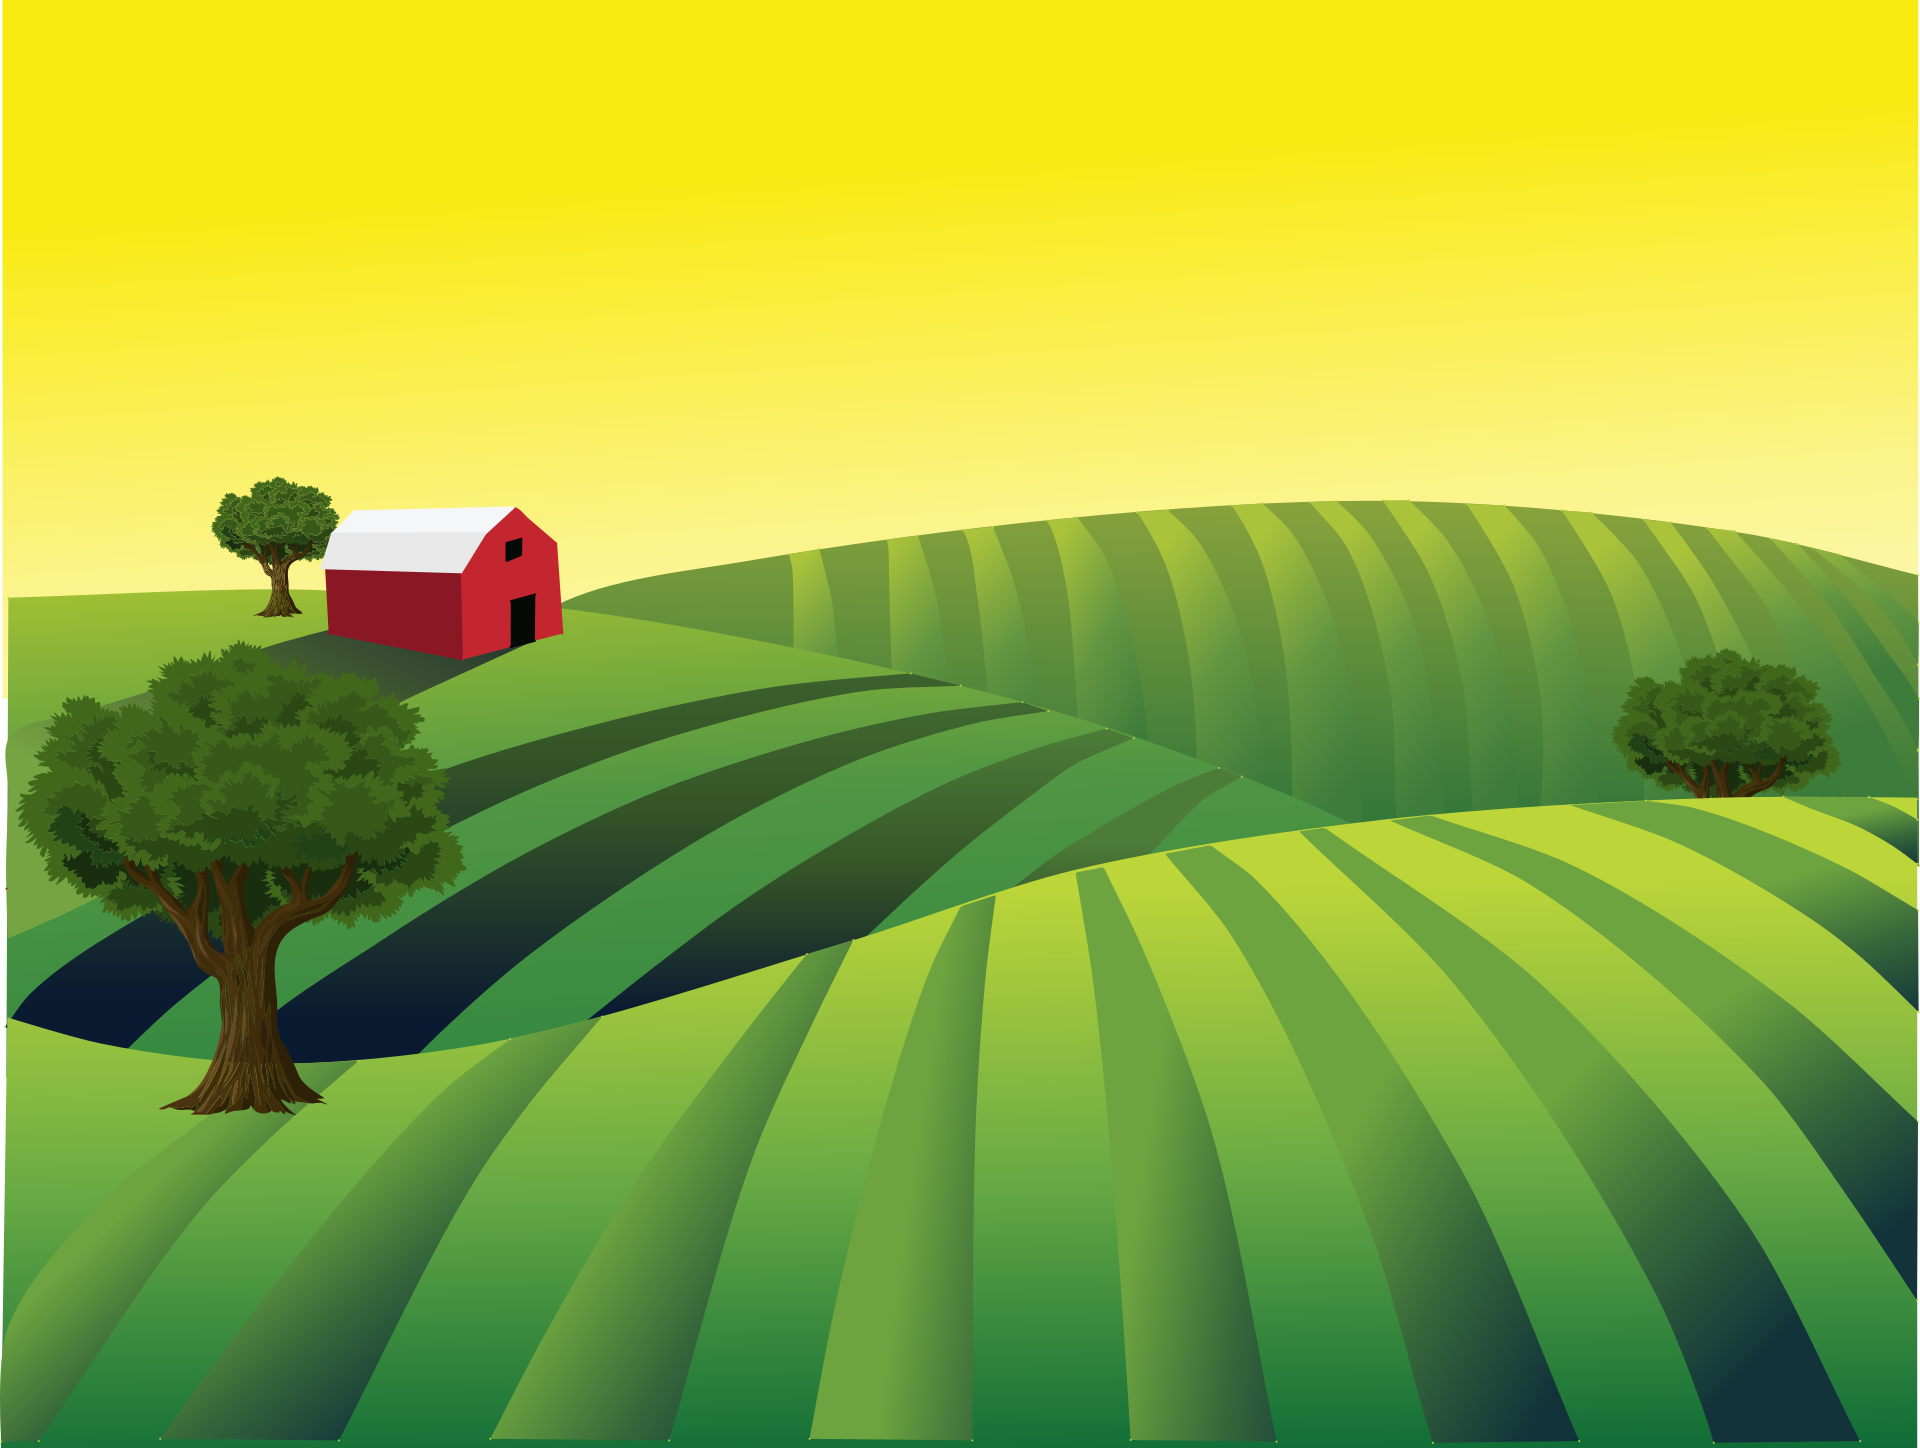
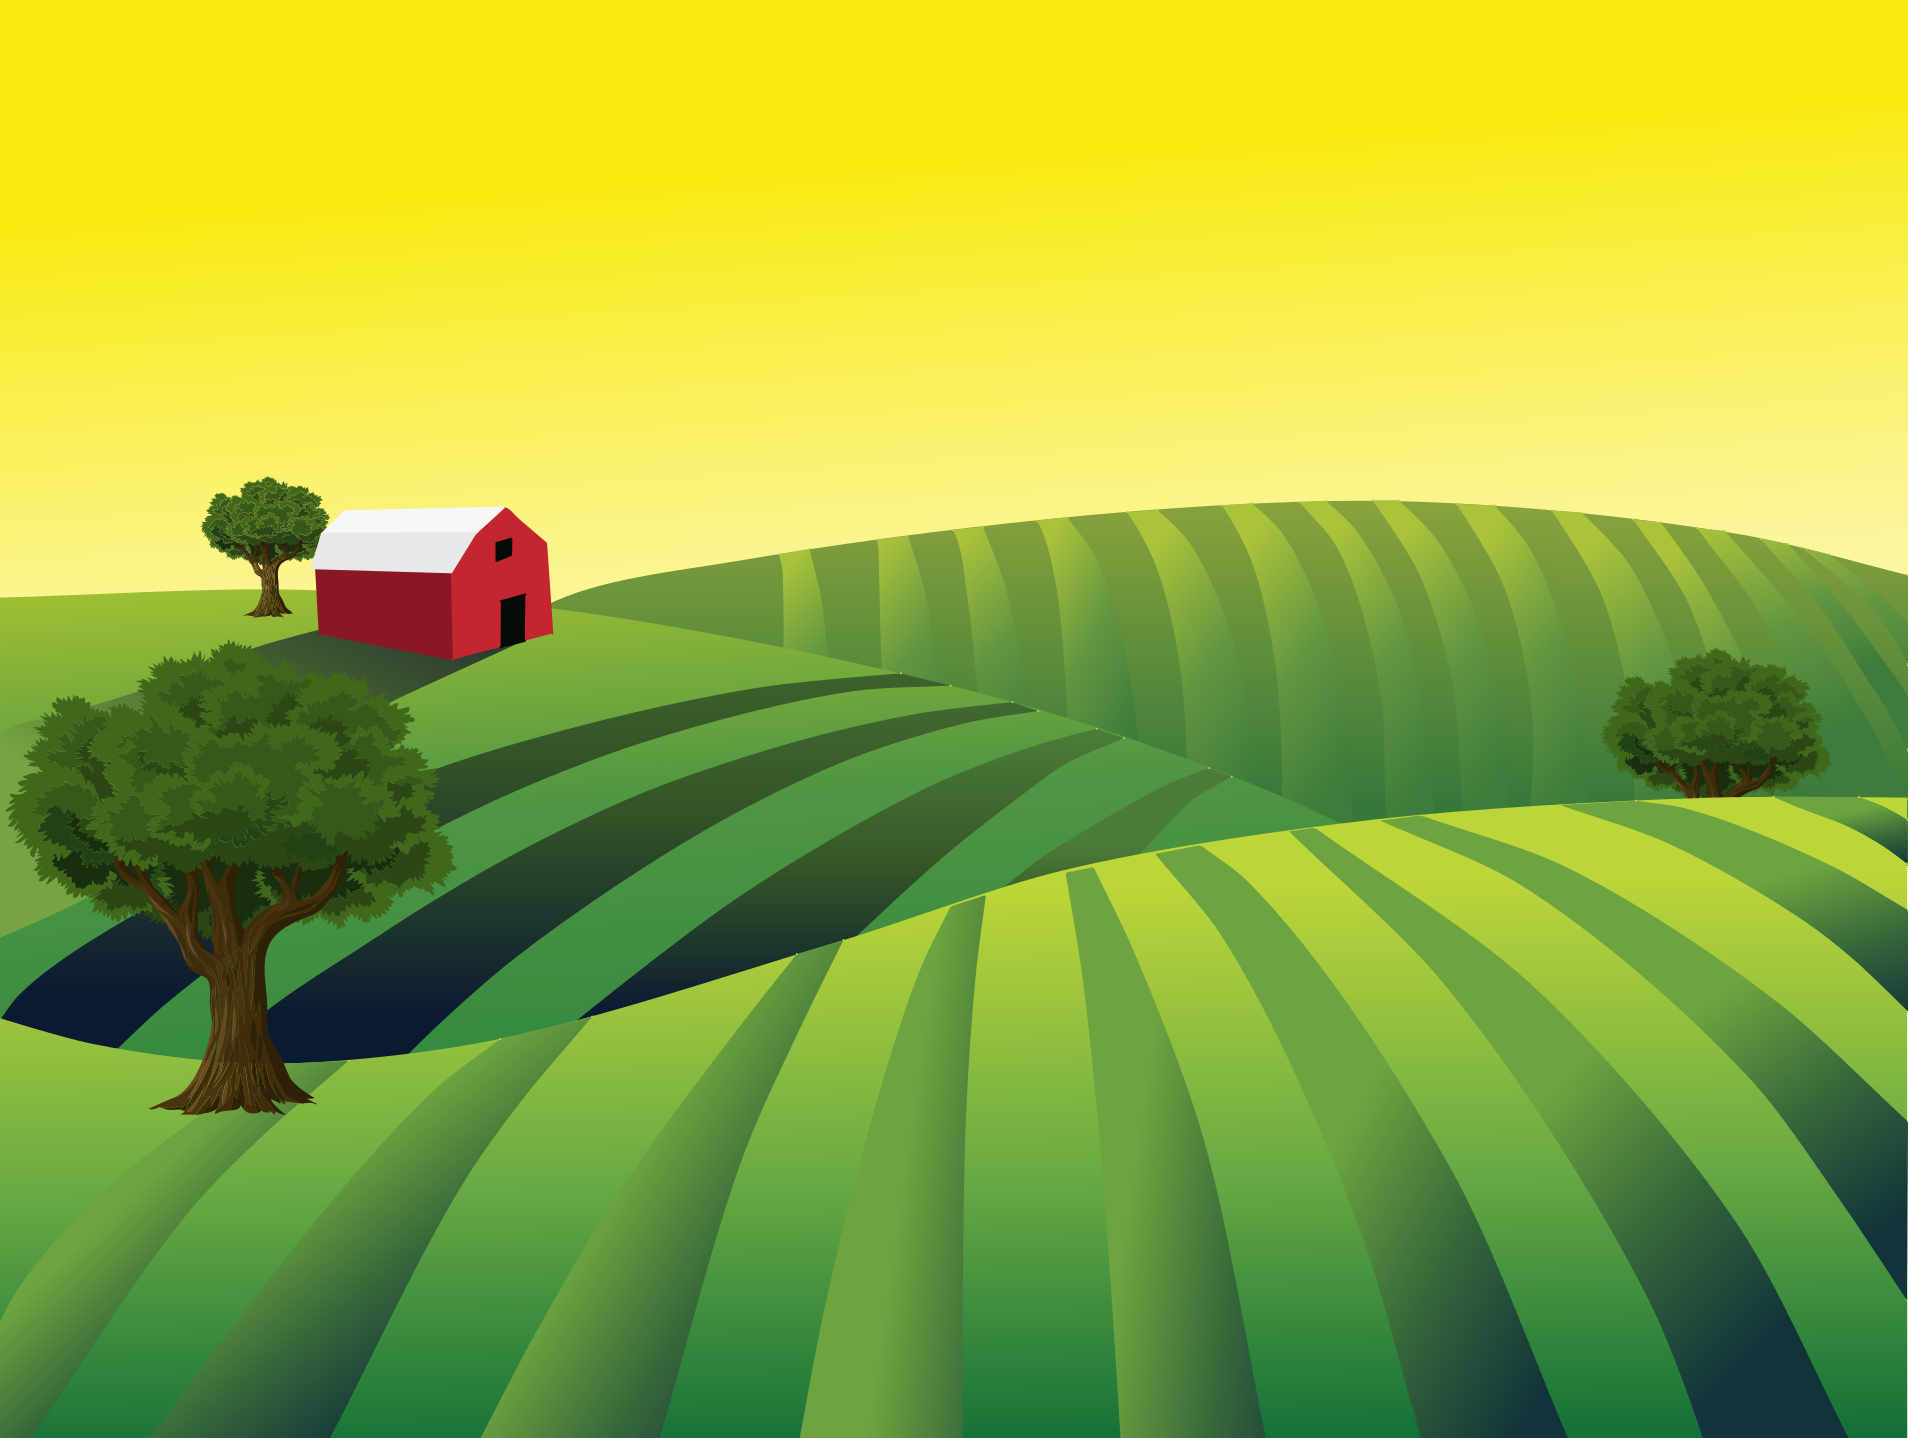
fixed background image

diff --git a/style.scss b/style.scss
@@ -131,11 +131,12 @@ body {
   align-items: center;
   justify-content: center;
   background-image: url("./farm.png");
+  background-repeat: no-repeat;
+  background-size: cover;
   background-position: center;
   color: #f5f6f8;
   font-family: "Smokum", cursive;
-  overflow: hidden;
-  z-index: 10;
+  // overflow: hidden;
 }
 
 .main-container {
@@ -358,7 +359,6 @@ body {
 .carrier-clone {
   position: fixed;
   top: 10000px;
-  left: 0;
   z-index: 1;
 }
 .show {

diff --git a/style.css b/style.css
@@ -143,11 +143,11 @@ body {
       -ms-flex-pack: center;
           justify-content: center;
   background-image: url("./farm.png");
+  background-repeat: no-repeat;
+  background-size: cover;
   background-position: center;
   color: #f5f6f8;
   font-family: "Smokum", cursive;
-  overflow: hidden;
-  z-index: 10;
 }
 
 .main-container {
@@ -473,7 +473,6 @@ body {
 .carrier-clone {
   position: fixed;
   top: 10000px;
-  left: 0;
   z-index: 1;
 }
 
